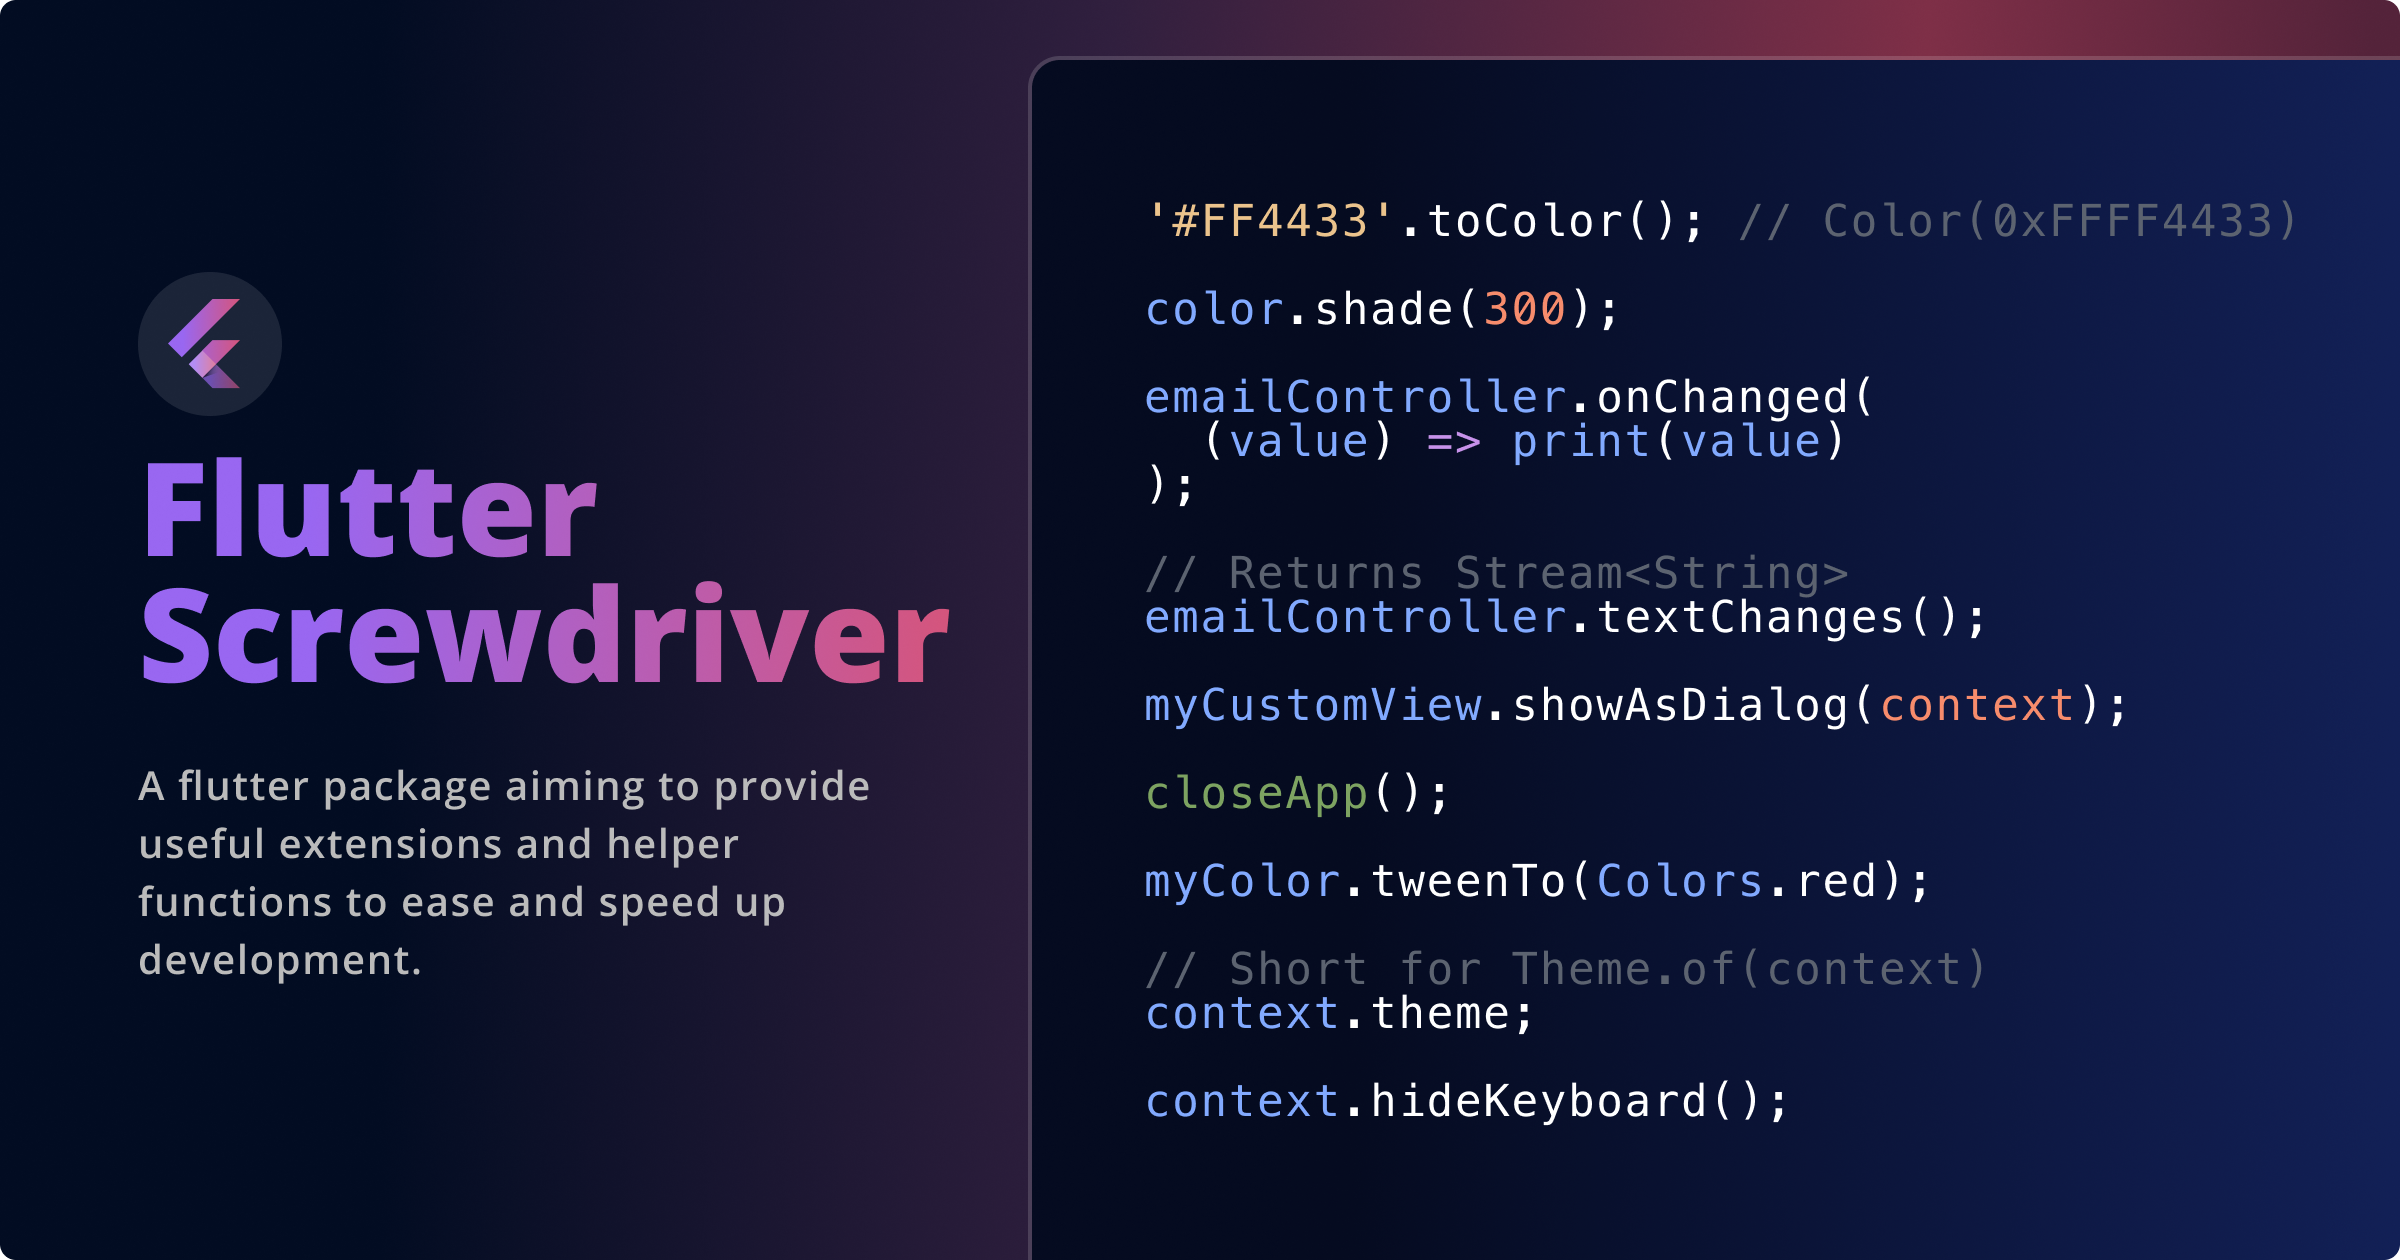
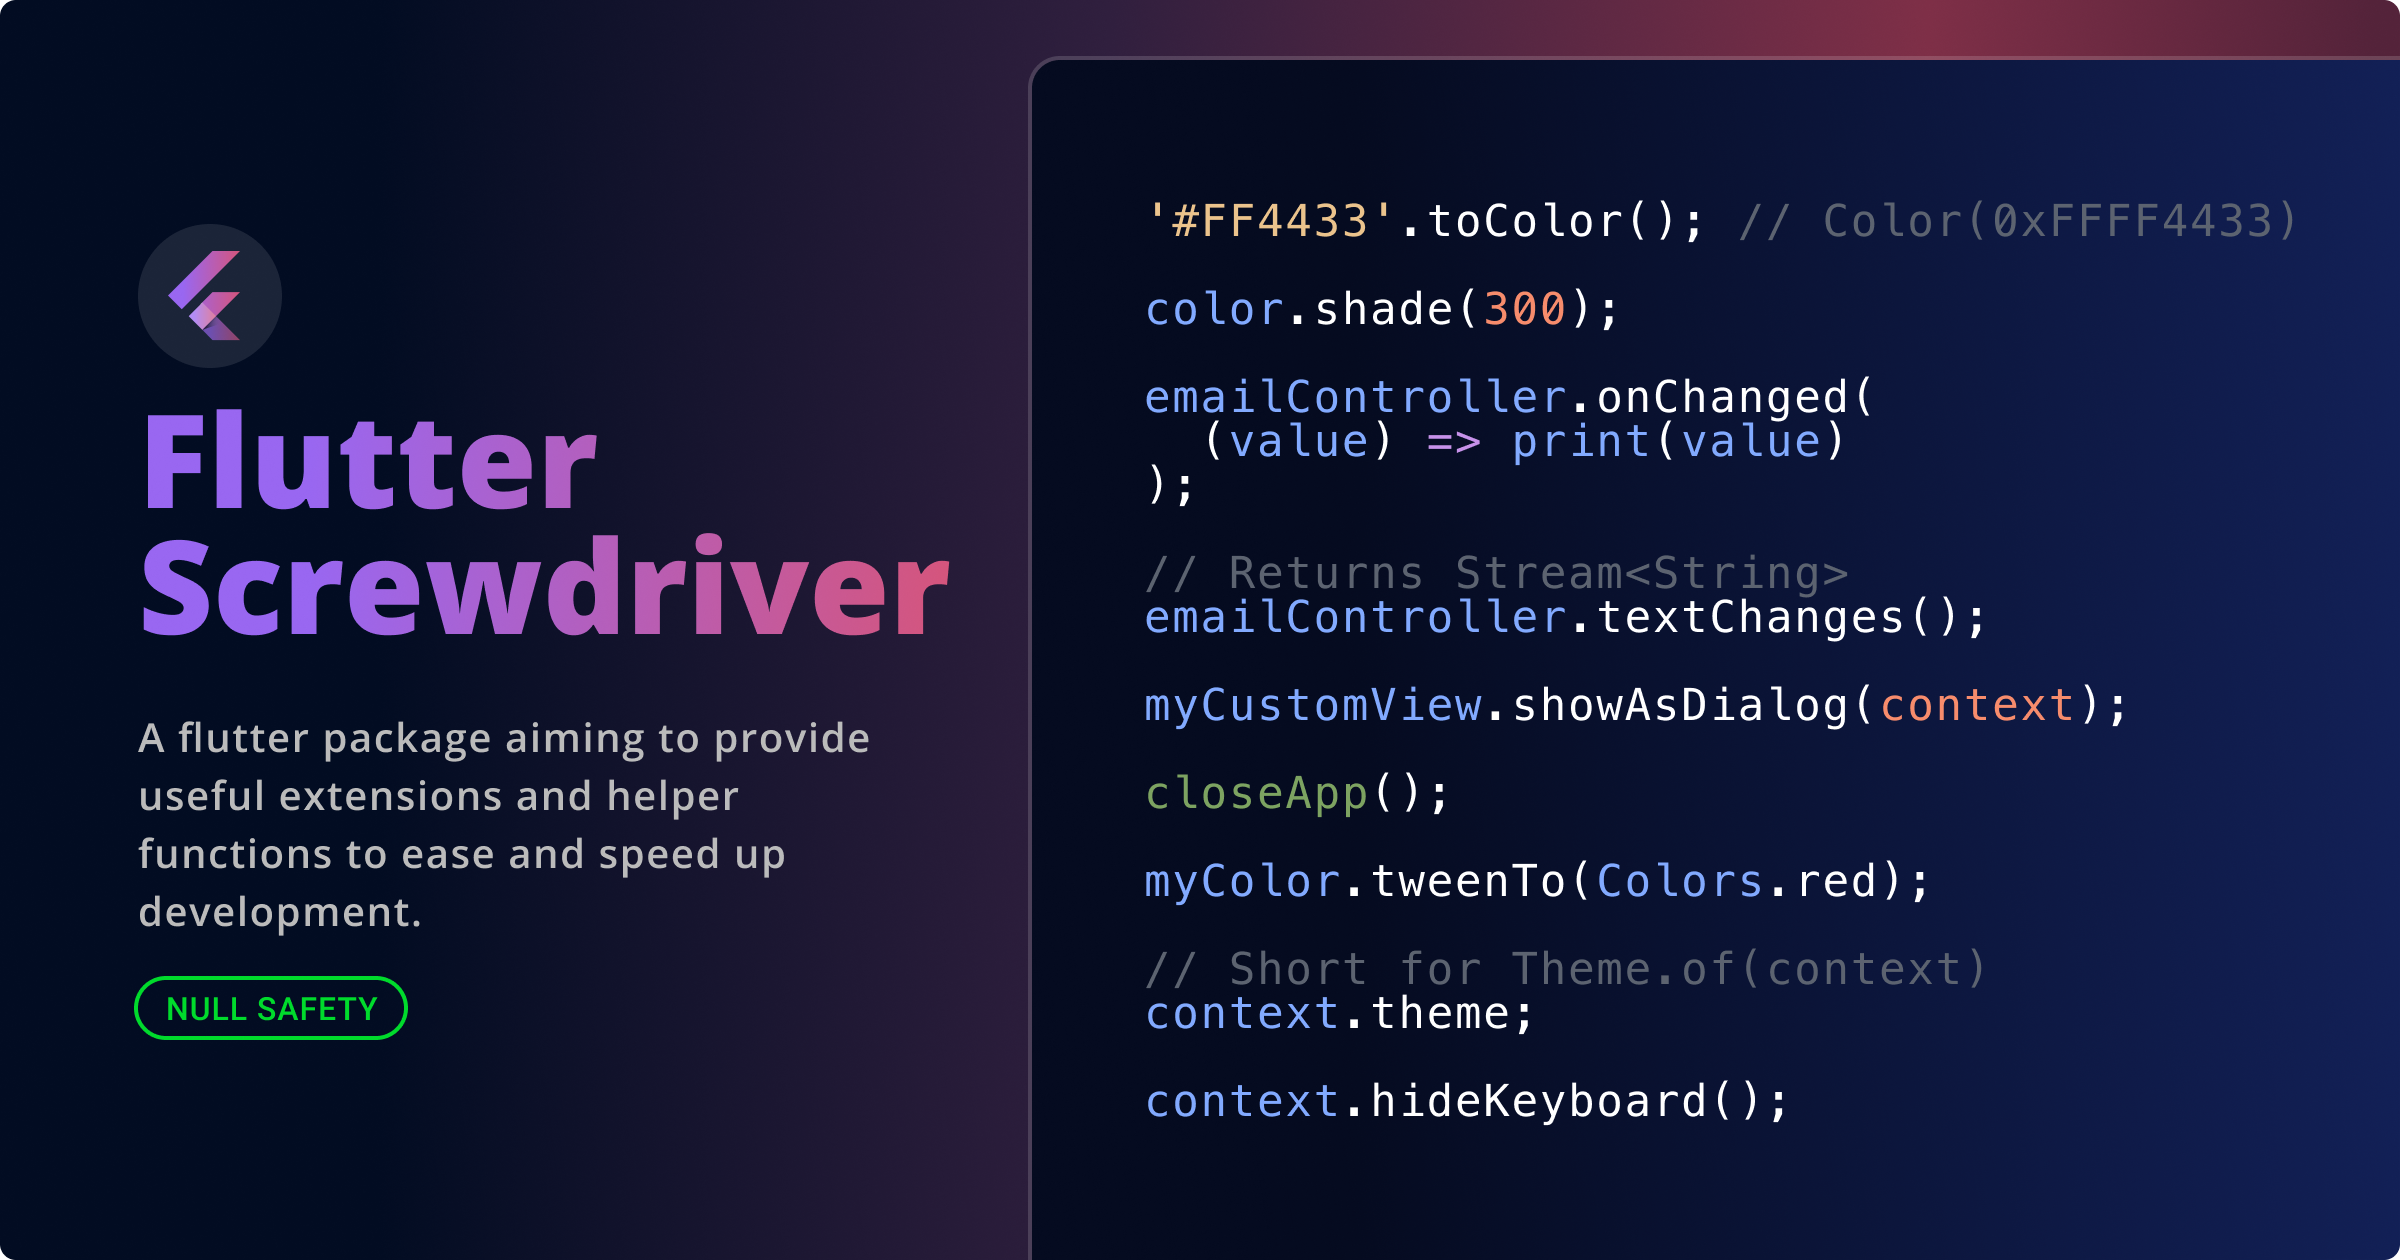
:pencil: update docs

Changed region(s): [[0.0312, 0.1548, 0.4062, 0.8357]]

diff --git a/README.md b/README.md
@@ -14,6 +14,7 @@ A flutter package aiming to provide useful extensions and helper functions to ea
 - 👌  Follows Code Quality Guidelines
 - 🦾  Production Ready
 - 🛹  Easy to Use
+- 💯  Sound Null Safety 
 
 
 
@@ -27,7 +28,7 @@ To checkout all the available extensions, helper functions & classes, see [docum
 
 ```yaml
 dependencies:
-  flutter_screwdriver: ^1.X.X
+  flutter_screwdriver: <latest_version>
 ```
 
 2. Import library into your code.

diff --git a/CHANGELOG.md b/CHANGELOG.md
@@ -1,3 +1,7 @@
+## 2.0.0
+
+- Migrated to null safety
+
 ## 1.0.0
 
 - Initial Release
